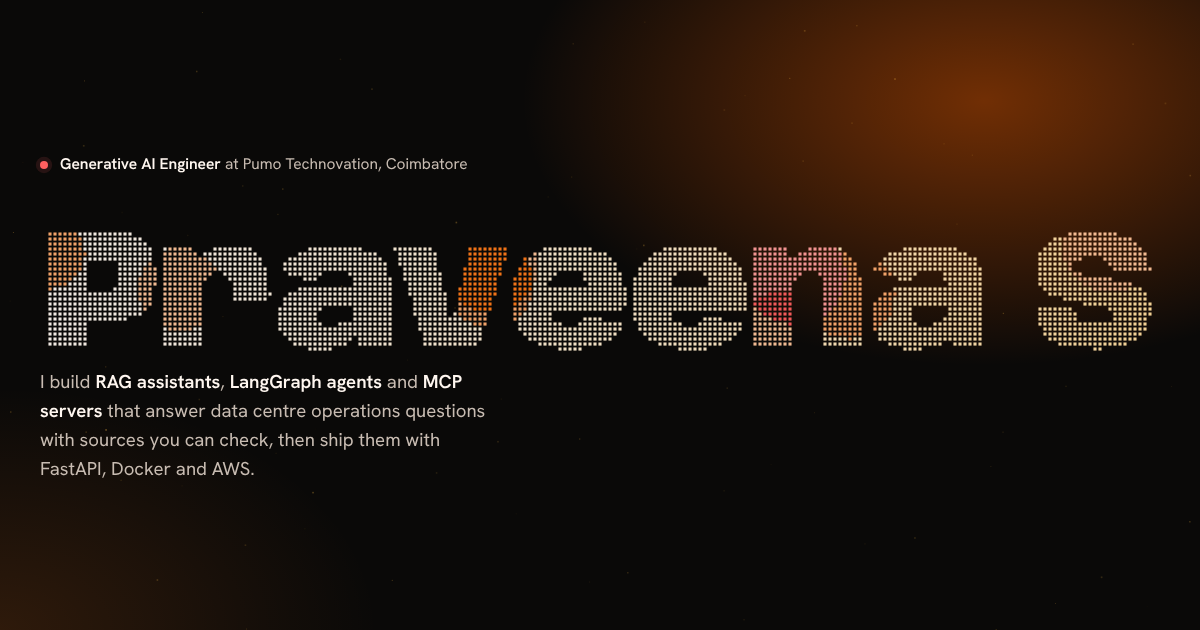
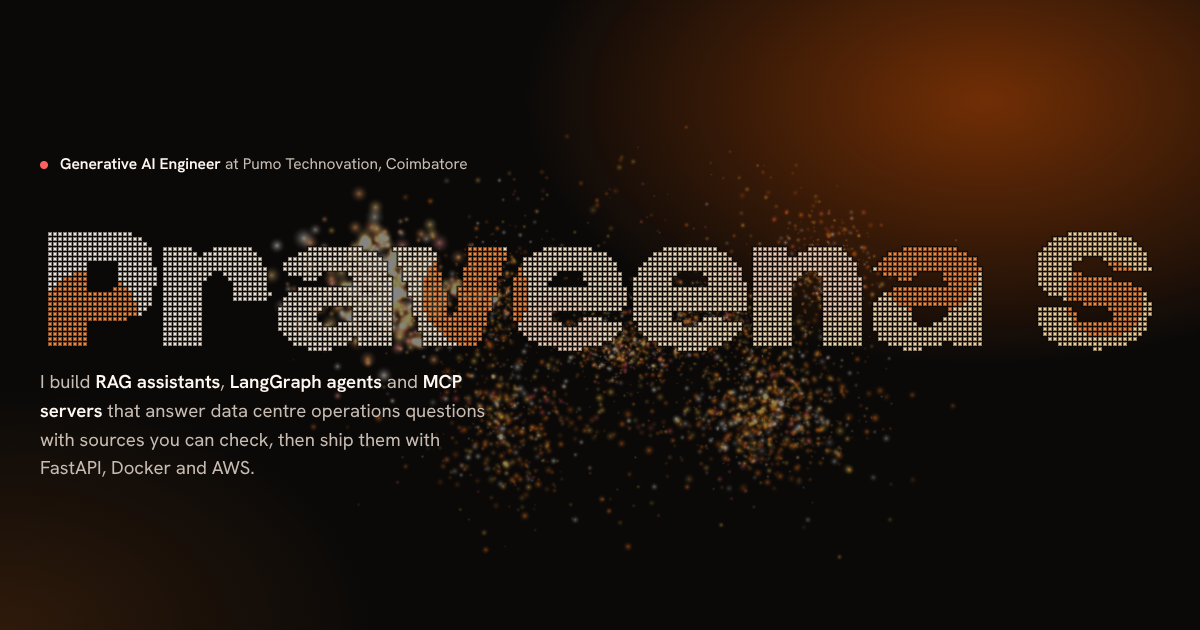
Add a 3D embedding galaxy behind the page
A WebGL point cloud grouped into topic clusters, like embeddings in a
vector database. The cursor tilts it and lights up nearby points like a
query, clicks send a ripple, a random cluster flashes like a retrieval,
and scrolling morphs it from galaxy to knowledge sphere, index lattice,
double helix and a ring around the contact section. Map and console cards
are frosted glass so the shapes glow through; the name gets a dark backing
so it stays legible over the glow. Motion is time-based, phones get fewer
points and a dimmer cloud, and reduced-motion visitors see a still frame.

Claude-Session: https://claude.ai/code/session_0181d6akb8y7CAuqzE2LccGx

diff --git a/index.html b/index.html
@@ -123,8 +123,9 @@ button{font:inherit}
 .hero{position:relative;min-height:100vh;min-height:100svh;display:flex;align-items:center;overflow:hidden;isolation:isolate;
   background:
     radial-gradient(55% 60% at 82% 16%,var(--glow),transparent 70%),
-    radial-gradient(45% 55% at 0% 100%,rgb(var(--accent-c) / .15),transparent 70%),
-    var(--bg)}
+    radial-gradient(45% 55% at 0% 100%,rgb(var(--accent-c) / .15),transparent 70%)}
+/* 3D embedding galaxy: fixed behind every section (sections stay see-through) */
+#galaxy{position:fixed;left:0;top:0;width:100%;height:100vh;z-index:-1;pointer-events:none;opacity:0}
 #field{position:absolute;inset:0;width:100%;height:100%;z-index:0}
 .hero-in{position:relative;z-index:1;width:100%;padding-top:clamp(104px,14vh,150px);padding-bottom:clamp(48px,8vh,96px)}
 .hero-top{display:flex;flex-wrap:wrap;justify-content:space-between;align-items:center;gap:8px 24px}
@@ -170,7 +171,7 @@ button{font:inherit}
 .codelink:hover{color:var(--accent);border-color:var(--accent)}
 
 .map{position:sticky;top:96px;min-width:0}
-.map-in{border:1px solid var(--line);border-radius:26px;padding:clamp(14px,2vw,24px);background:radial-gradient(90% 70% at 100% 0%,rgb(var(--glow-c) / .22),transparent 65%),linear-gradient(180deg,var(--s1),var(--bg-2))}
+.map-in{border:1px solid var(--line);border-radius:26px;padding:clamp(14px,2vw,24px);background:radial-gradient(90% 70% at 100% 0%,rgb(var(--glow-c) / .2),transparent 65%),linear-gradient(180deg,rgb(var(--s1-c) / .66),rgb(var(--bg-c) / .74));-webkit-backdrop-filter:blur(10px) saturate(140%);backdrop-filter:blur(10px) saturate(140%)}
 .map-scroll{overflow-x:auto;-webkit-overflow-scrolling:touch;scrollbar-width:thin}
 .map-svg{width:100%;height:auto}
 @media (max-width:640px){.map-svg{min-width:600px}}
@@ -224,7 +225,7 @@ button{font:inherit}
 @media (max-width:760px){.earlier{grid-template-columns:1fr}}
 
 /* ---------- Stack marquee ---------- */
-.marquee{position:relative;overflow:hidden;border-block:1px solid var(--line);padding-block:clamp(18px,2.4vw,30px);background:var(--bg-2);
+.marquee{position:relative;overflow:hidden;border-block:1px solid var(--line);padding-block:clamp(18px,2.4vw,30px);background:rgb(var(--bg-c) / .72);
   -webkit-mask-image:linear-gradient(90deg,transparent,#000 7%,#000 93%,transparent);mask-image:linear-gradient(90deg,transparent,#000 7%,#000 93%,transparent)}
 .mq-row{display:flex;width:max-content;animation:mq 46s linear infinite}
 .mq-row+.mq-row{margin-top:clamp(6px,1vw,12px);animation-duration:58s;animation-direction:reverse}
@@ -248,8 +249,8 @@ button{font:inherit}
 @media (max-width:560px){.princ{grid-template-columns:1fr}}
 
 /* ---------- Ask my resume ---------- */
-.ask-sec{background:linear-gradient(180deg,var(--bg),var(--bg-2) 30%,var(--bg-2) 70%,var(--bg))}
-.console{border:1px solid var(--line-2);border-radius:28px;padding:clamp(16px,3vw,32px);background:radial-gradient(110% 80% at 0% 0%,rgb(var(--glow-c) / .24),transparent 60%),var(--s1)}
+.ask-sec{background:linear-gradient(180deg,transparent,rgb(var(--bg-c) / .55) 30%,rgb(var(--bg-c) / .55) 70%,transparent)}
+.console{border:1px solid var(--line-2);border-radius:28px;padding:clamp(16px,3vw,32px);background:radial-gradient(110% 80% at 0% 0%,rgb(var(--glow-c) / .22),transparent 60%),rgb(var(--s1-c) / .7);-webkit-backdrop-filter:blur(10px) saturate(140%);backdrop-filter:blur(10px) saturate(140%)}
 .ask{display:flex;align-items:center;gap:10px;padding:6px 6px 6px 22px;border-radius:999px;background:var(--bg);border:1px solid var(--line-2);transition:border-color .2s}
 .ask:focus-within{border-color:var(--service)}
 #q{flex:1;min-width:0;height:48px;border:0;outline:0;background:transparent;color:var(--text);font:500 18px var(--f-body)}
@@ -333,7 +334,7 @@ button{font:inherit}
 @media (max-width:760px){.edu{grid-template-columns:1fr}}
 
 /* ---------- Contact ---------- */
-.contact{position:relative;overflow:hidden;padding-block:clamp(100px,13vw,170px) clamp(64px,8vw,96px);background:radial-gradient(70% 70% at 50% 110%,var(--glow),transparent 70%),var(--bg)}
+.contact{position:relative;overflow:hidden;padding-block:clamp(100px,13vw,170px) clamp(64px,8vw,96px);background:radial-gradient(70% 70% at 50% 110%,var(--glow),transparent 70%)}
 .contact h2{font:900 clamp(42px,7.4vw,108px)/.95 var(--f-disp);font-stretch:112.5%;letter-spacing:-.02em;max-width:13ch;text-wrap:balance}
 .contact .sub{margin-top:22px;color:var(--muted);font-size:clamp(17px,1.5vw,20px);max-width:48ch}
 .mailrow{margin-top:40px;display:flex;flex-wrap:wrap;align-items:center;gap:14px 20px}
@@ -392,6 +393,7 @@ footer{border-top:1px solid var(--line);padding-block:24px calc(24px + env(safe-
 </head>
 <body>
 <a class="skip" href="#main">Skip to content</a>
+<canvas id="galaxy" aria-hidden="true"></canvas>
 <div class="prog" aria-hidden="true"></div>
 
 <header class="top">
@@ -850,6 +852,230 @@ function rgbVar(name,fallback){
 }
 
 /* =====================================================================
+   3D embedding galaxy: a WebGL point cloud fixed behind the whole page.
+   The points sit in topic clusters, the way embeddings do in a vector
+   database. The cursor acts like a query (nearby points light up and the
+   cloud tilts toward it), a click sends a ripple, a random cluster lights
+   up every few seconds like a retrieval, and scrolling morphs the cloud:
+   galaxy (hero), knowledge sphere (systems), index lattice (ask my resume),
+   career helix (experience), then a ring around the contact section.
+   ===================================================================== */
+var Galaxy=(function(){
+  var cv=document.getElementById("galaxy");
+  if(!cv) return null;
+  var gl=null;
+  try{ gl=cv.getContext("webgl",{alpha:true,antialias:false,premultipliedAlpha:true,powerPreference:"low-power"})||cv.getContext("experimental-webgl"); }catch(e){ gl=null; }
+  if(!gl){ cv.style.display="none"; return null; }
+
+  var VS=[
+    "attribute vec3 aP0,aP1,aP2,aP3,aP4;",
+    "attribute vec4 aSeed;",
+    "uniform vec4 uW; uniform float uW4;",
+    "uniform mat4 uMV,uProj;",
+    "uniform float uTime,uSize,uHot,uHotAmt,uAspect,uPulseT,uMouseOn;",
+    "uniform vec2 uMouse,uPulse;",
+    "uniform vec3 uC0,uC1,uC2,uC3;",
+    "varying vec3 vColor; varying float vAlpha;",
+    "void main(){",
+    "  vec3 p=aP0*uW.x+aP1*uW.y+aP2*uW.z+aP3*uW.w+aP4*uW4;",
+    "  float ph=aSeed.z;",
+    "  p+=0.022*vec3(sin(uTime*0.6+ph),cos(uTime*0.5+ph*1.3),sin(uTime*0.45+ph*0.7));",
+    "  vec4 mv=uMV*vec4(p,1.0);",
+    "  gl_Position=uProj*mv;",
+    "  vec2 ndc=gl_Position.xy/gl_Position.w;",
+    "  float near=uMouseOn*(1.0-smoothstep(0.0,0.30,length((ndc-uMouse)*vec2(uAspect,1.0))));",
+    "  float hot=0.75*uHotAmt*(1.0-step(0.5,abs(aSeed.x-uHot)));",
+    "  float ring=0.0;",
+    "  if(uPulseT>=0.0){ float dr=length((ndc-uPulse)*vec2(uAspect,1.0))-uPulseT*1.7; ring=exp(-dr*dr*90.0)*(1.0-uPulseT); }",
+    "  float boost=max(max(near,hot),ring);",
+    "  vec3 c=aSeed.w<0.45?uC1:(aSeed.w<0.75?uC2:(aSeed.w<0.93?uC0:uC3));",
+    "  vColor=mix(c,vec3(1.0,0.94,0.86),boost*0.6);",
+    "  float tw=0.72+0.28*sin(uTime*1.6+ph*3.0);",
+    "  vAlpha=(0.42+0.55*aSeed.y)*tw+boost*0.7;",
+    "  gl_PointSize=uSize*(0.5+aSeed.y)*(1.0+boost*1.3)/max(0.5,-mv.z);",
+    "}"
+  ].join("\n");
+  var FS=[
+    "precision mediump float;",
+    "varying vec3 vColor; varying float vAlpha;",
+    "void main(){",
+    "  float d=length(gl_PointCoord-vec2(0.5));",
+    "  if(d>0.5) discard;",
+    "  float a=1.0-d*2.0; a=a*a*min(1.0,vAlpha);",
+    "  gl_FragColor=vec4(vColor*a,a);",
+    "}"
+  ].join("\n");
+  function compile(type,src){
+    var s=gl.createShader(type); gl.shaderSource(s,src); gl.compileShader(s);
+    if(!gl.getShaderParameter(s,gl.COMPILE_STATUS)){ if(window.console) console.warn("galaxy shader:",gl.getShaderInfoLog(s)); return null; }
+    return s;
+  }
+  var vs=compile(gl.VERTEX_SHADER,VS), fs=compile(gl.FRAGMENT_SHADER,FS);
+  if(!vs||!fs){ cv.style.display="none"; return null; }
+  var prog=gl.createProgram(); gl.attachShader(prog,vs); gl.attachShader(prog,fs); gl.linkProgram(prog);
+  if(!gl.getProgramParameter(prog,gl.LINK_STATUS)){ cv.style.display="none"; return null; }
+  gl.useProgram(prog);
+
+  // ---- point data (seeded, so the cloud looks the same on every visit) ----
+  var small=innerWidth<760, N=small?1800:4200, K=8, STRIDE=19, sd=20261016;
+  function rand(){ sd=(sd+0x6D2B79F5)|0; var t=Math.imul(sd^(sd>>>15),1|sd); t=(t+Math.imul(t^(t>>>7),61|t))^t; return ((t^(t>>>14))>>>0)/4294967296; }
+  function gauss(){ var u=rand()||1e-6, v=rand(); return Math.sqrt(-2*Math.log(u))*Math.cos(6.2831853*v); }
+  // cluster id per point, sorted so each cluster is a contiguous run (it then forms a patch in every shape)
+  var cl=new Array(N), ws=[], wsum=0, k, j, i, idx=0;
+  for(k=0;k<K;k++){ ws.push(0.6+rand()*0.9); wsum+=ws[k]; }
+  var nCl=N-Math.round(N*0.12);
+  for(k=0;k<K;k++){ var cnt=(k===K-1)?nCl-idx:Math.round(nCl*ws[k]/wsum); for(j=0;j<cnt&&idx<nCl;j++) cl[idx++]=k; }
+  while(idx<N) cl[idx++]=K; // K = scattered "noise" points
+
+  var centers=[], sig=[];
+  for(k=0;k<K;k++){
+    var ca=k/K*6.2832+rand()*0.6, cr=0.75+rand()*1.15;
+    centers.push([Math.cos(ca)*cr*1.3,(rand()-0.5)*1.2,Math.sin(ca)*cr*0.85]);
+    sig.push([0.16+rand()*0.22,0.12+rand()*0.18,0.16+rand()*0.22]);
+  }
+  var G=4, S=3.0, EDGES=[], ax, g1, g2, g3;
+  for(ax=0;ax<3;ax++) for(g1=0;g1<G;g1++) for(g2=0;g2<G;g2++) for(g3=0;g3<G-1;g3++){
+    var A=[0,0,0], B=[0,0,0], o1=(ax+1)%3, o2=(ax+2)%3;
+    A[ax]=g3; B[ax]=g3+1; A[o1]=B[o1]=g1; A[o2]=B[o2]=g2;
+    EDGES.push([A,B]);
+  }
+  function g2w(v){ return (v/(G-1)-0.5)*S; }
+  var TILT=1.1, ct=Math.cos(TILT), st=Math.sin(TILT);
+  var data=new Float32Array(N*STRIDE);
+  function put(n,slot,x,y,z){ var o=n*STRIDE+slot*3; data[o]=x; data[o+1]=y; data[o+2]=z; }
+  for(i=0;i<N;i++){
+    var c=cl[i], f=i/N;
+    // 0 galaxy: topic clusters with thin filaments to the next cluster, plus scattered noise
+    if(c<K){
+      var C=centers[c], Z=sig[c];
+      if(rand()<0.14){ var D=centers[(c+1)%K], tt=rand(); put(i,0,C[0]+(D[0]-C[0])*tt+gauss()*0.05,C[1]+(D[1]-C[1])*tt+gauss()*0.05,C[2]+(D[2]-C[2])*tt+gauss()*0.05); }
+      else put(i,0,C[0]+gauss()*Z[0],C[1]+gauss()*Z[1],C[2]+gauss()*Z[2]);
+    } else {
+      var su=rand()*2-1, sth=rand()*6.2832, sr=Math.cbrt(rand()), sq=Math.sqrt(1-su*su);
+      put(i,0,sq*Math.cos(sth)*sr*2.7,su*sr*1.5,sq*Math.sin(sth)*sr*1.7);
+    }
+    // 1 knowledge sphere (Fibonacci lattice)
+    var fy=1-2*(i+0.5)/N, frad=Math.sqrt(1-fy*fy), fang=i*2.399963, R1=1.5*(1+(rand()-0.5)*0.05);
+    put(i,1,Math.cos(fang)*frad*R1,fy*R1,Math.sin(fang)*frad*R1);
+    // 2 index lattice: points along grid edges, brighter at the nodes
+    var e=EDGES[Math.min(EDGES.length-1,Math.floor(f*EDGES.length))], et=rand()<0.22?(rand()<0.5?0:1):rand(), jt=0.012;
+    put(i,2,g2w(e[0][0]+(e[1][0]-e[0][0])*et)+gauss()*jt,g2w(e[0][1]+(e[1][1]-e[0][1])*et)+gauss()*jt,g2w(e[0][2]+(e[1][2]-e[0][2])*et)+gauss()*jt);
+    // 3 career helix: an upright double helix (two strands joined by rungs) that spins like DNA
+    var hy=1.65-3.3*f, ha=f*2.4*6.2832, HR=0.62;
+    if(rand()<0.16){ var hs=1-2*rand(); put(i,3,Math.cos(ha)*HR*hs,hy,Math.sin(ha)*HR*hs); }
+    else { var hb=ha+(i%2)*Math.PI; put(i,3,Math.cos(hb)*HR+gauss()*0.025,hy+gauss()*0.02,Math.sin(hb)*HR+gauss()*0.025); }
+    // 4 contact ring: a tilted torus
+    var tu=f*6.2832+rand()*0.03, tv=rand()*6.2832, TR=1.5, tr=0.26*(0.6+rand()*0.6);
+    var rx0=(TR+tr*Math.cos(tv))*Math.cos(tu), ry0=tr*Math.sin(tv), rz0=(TR+tr*Math.cos(tv))*Math.sin(tu);
+    put(i,4,rx0,ry0*ct-rz0*st,ry0*st+rz0*ct);
+    // seed: cluster, size, phase, colour pick
+    var so=i*STRIDE+15; data[so]=c; data[so+1]=rand(); data[so+2]=rand()*6.2832; data[so+3]=rand();
+  }
+  var buf=gl.createBuffer(); gl.bindBuffer(gl.ARRAY_BUFFER,buf); gl.bufferData(gl.ARRAY_BUFFER,data,gl.STATIC_DRAW);
+  ["aP0","aP1","aP2","aP3","aP4"].forEach(function(n,s){ var l=gl.getAttribLocation(prog,n); if(l<0) return; gl.enableVertexAttribArray(l); gl.vertexAttribPointer(l,3,gl.FLOAT,false,STRIDE*4,s*12); });
+  var ls=gl.getAttribLocation(prog,"aSeed"); if(ls>=0){ gl.enableVertexAttribArray(ls); gl.vertexAttribPointer(ls,4,gl.FLOAT,false,STRIDE*4,60); }
+  var U={};
+  ["uW","uW4","uMV","uProj","uTime","uSize","uHot","uHotAmt","uAspect","uPulseT","uMouseOn","uMouse","uPulse","uC0","uC1","uC2","uC3"].forEach(function(n){ U[n]=gl.getUniformLocation(prog,n); });
+  function col(v){ return [v[0]/255,v[1]/255,v[2]/255]; }
+  var C0=col(rgbVar("--text-c",[255,247,240])), C1=col(rgbVar("--accent-c",[255,122,26])), C2=col(rgbVar("--service-c",[255,192,72])), C3=col(rgbVar("--guard-c",[255,96,96]));
+  gl.disable(gl.DEPTH_TEST); gl.enable(gl.BLEND); gl.blendFunc(gl.ONE,gl.ONE);
+
+  // ---- camera ----
+  function persp(fovy,asp,n,fr){ var t=1/Math.tan(fovy/2), nf=1/(n-fr); return [t/asp,0,0,0, 0,t,0,0, 0,0,(fr+n)*nf,-1, 0,0,2*fr*n*nf,0]; }
+  function modelView(rx,ry,ox,oy,oz){
+    var cx=Math.cos(rx), sx=Math.sin(rx), cy=Math.cos(ry), sy=Math.sin(ry);
+    return [cy,sx*sy,-cx*sy,0, 0,cx,sx,0, sy,-sx*cy,cx*cy,0, ox,oy,oz,1];
+  }
+  var DPR=1, aspect=1, camZ=4.2, proj=persp(0.8727,1,0.1,50), lastW=0, lastH=0;
+  function resize(){
+    var w=innerWidth, h=innerHeight;
+    if(w===lastW&&Math.abs(h-lastH)<140) return;
+    lastW=w; lastH=h; DPR=Math.min(small?1.5:1.75,window.devicePixelRatio||1);
+    cv.width=Math.round(w*DPR); cv.height=Math.round(h*DPR); cv.style.height=h+"px";
+    aspect=w/h; camZ=aspect<1?5.4:4.2; proj=persp(0.8727,aspect,0.1,50);
+  }
+
+  // ---- scroll: which shape, where, and how bright ----
+  var SECTIONS=["top","systems","ask","experience","contact"];
+  var OFF=[[0.3,-0.1,-1.0],[0.95,0,0],[0.15,0,-0.2],[2.05,0,0],[0.9,-0.05,0]]; // x, y, depth per shape
+  // brightness per shape; dimmer on phones, where the cloud sits right behind body text
+  var OP=small?[0.85,0.38,0.4,0.42,0.75]:[0.9,0.7,0.8,0.75,1];
+  var anchors=[0,1,2,3,4], TW=[1,0,0,0,0], W=[1,0,0,0,0];
+  function measure(){
+    var y=window.scrollY||window.pageYOffset, maxC=document.documentElement.scrollHeight-innerHeight/2-1;
+    anchors=SECTIONS.map(function(id,s){
+      var el=document.getElementById(id); if(!el) return s*1e5;
+      var r=el.getBoundingClientRect();
+      return s===0?innerHeight/2:Math.min(maxC,r.top+y+r.height/2);
+    });
+  }
+  function targets(){
+    var cy=(window.scrollY||window.pageYOffset)+innerHeight/2, n=anchors.length, s;
+    for(s=0;s<n;s++) TW[s]=0;
+    if(cy<=anchors[0]){ TW[0]=1; return; }
+    if(cy>=anchors[n-1]){ TW[n-1]=1; return; }
+    for(s=0;s<n-1;s++){
+      if(cy>=anchors[s]&&cy<anchors[s+1]){
+        var t=(cy-anchors[s])/(anchors[s+1]-anchors[s]);
+        t=t<0.25?0:t>0.75?1:(t-0.25)/0.5; t=t*t*(3-2*t);
+        TW[s]=1-t; TW[s+1]=t; return;
+      }
+    }
+  }
+
+  // ---- pointer: cursor as a query, clicks as ripples ----
+  var mx=0, my=0, tmx=0, tmy=0, mOn=0, tmOn=0, pulse=[0,0], pulseT=-99, hot=-1, hotT=-99, fade=0, raf=0, t0=performance.now(), last=0;
+  if(!REDUCE){
+    window.addEventListener("pointermove",function(e){
+      if(e.pointerType!=="mouse") return;
+      tmx=e.clientX/innerWidth*2-1; tmy=e.clientY/innerHeight*2-1; tmOn=1;
+    },{passive:true});
+    document.documentElement.addEventListener("pointerleave",function(){ tmOn=0; });
+    window.addEventListener("pointerdown",function(e){
+      pulse=[e.clientX/innerWidth*2-1,-(e.clientY/innerHeight*2-1)]; pulseT=(performance.now()-t0)/1000;
+    },{passive:true});
+  }
+
+  function draw(now){
+    // time-based easing, so the motion runs at the same speed at 30, 60 or 120 frames per second
+    var t=(now-t0)/1000, dt=last?Math.min(0.1,t-last):0, s, ox=0, oy=0, oz=0, op=0, oscale=aspect>1?1:0.15;
+    last=t;
+    function ease(rate){ return REDUCE?1:1-Math.exp(-dt*rate); }
+    for(s=0;s<5;s++) W[s]+=(TW[s]-W[s])*ease(3.3);
+    mx+=(tmx-mx)*ease(3.1); my+=(tmy-my)*ease(3.1); mOn+=(tmOn-mOn)*ease(3.7);
+    fade=REDUCE?1:Math.min(1,fade+dt*0.7);
+    for(s=0;s<5;s++){ ox+=W[s]*OFF[s][0]*oscale; oy+=W[s]*OFF[s][1]; oz+=W[s]*OFF[s][2]; op+=W[s]*OP[s]; }
+    if(REDUCE) op=0.5;
+    if(!REDUCE&&t-hotT>2.8){ hotT=t; hot=Math.floor(rand()*K); }
+    var hotAmt=REDUCE?0:Math.max(0,Math.sin(Math.min(1,(t-hotT)/1.6)*Math.PI));
+    var pt=(t-pulseT)/1.4; if(pt>1||pt<0) pt=-1;
+    gl.viewport(0,0,cv.width,cv.height); gl.clearColor(0,0,0,0); gl.clear(gl.COLOR_BUFFER_BIT);
+    gl.uniform4f(U.uW,W[0],W[1],W[2],W[3]); gl.uniform1f(U.uW4,W[4]);
+    gl.uniformMatrix4fv(U.uMV,false,new Float32Array(modelView(0.22-my*0.3,(REDUCE?0.6:t*0.05)+mx*0.5,ox,oy,oz-camZ)));
+    gl.uniformMatrix4fv(U.uProj,false,new Float32Array(proj));
+    gl.uniform1f(U.uTime,REDUCE?0:t); gl.uniform1f(U.uSize,(small?28:36)*DPR);
+    gl.uniform1f(U.uHot,hot); gl.uniform1f(U.uHotAmt,hotAmt); gl.uniform1f(U.uAspect,aspect);
+    gl.uniform1f(U.uPulseT,pt); gl.uniform2f(U.uPulse,pulse[0],pulse[1]);
+    gl.uniform1f(U.uMouseOn,mOn); gl.uniform2f(U.uMouse,tmx,-tmy);
+    gl.uniform3fv(U.uC0,C0); gl.uniform3fv(U.uC1,C1); gl.uniform3fv(U.uC2,C2); gl.uniform3fv(U.uC3,C3);
+    gl.drawArrays(gl.POINTS,0,N);
+    cv.style.opacity=(op*fade).toFixed(3);
+  }
+  function loop(now){ raf=0; if(document.hidden) return; targets(); draw(now); raf=requestAnimationFrame(loop); }
+  function start(){ if(!raf&&!REDUCE) raf=requestAnimationFrame(loop); }
+  document.addEventListener("visibilitychange",function(){ if(!document.hidden) start(); });
+  cv.addEventListener("webglcontextlost",function(e){ e.preventDefault(); if(raf){ cancelAnimationFrame(raf); raf=0; } cv.style.display="none"; });
+  var rzT=0;
+  window.addEventListener("resize",function(){ clearTimeout(rzT); rzT=setTimeout(function(){ resize(); measure(); if(REDUCE) draw(performance.now()); },150); });
+  resize(); measure();
+  setTimeout(measure,1500);
+  if(document.fonts&&document.fonts.ready) document.fonts.ready.then(measure);
+  if(REDUCE) draw(performance.now()); else start();
+  return { shapes:function(){ return W.slice(); } };
+})();
+window.__galaxy=Galaxy;
+
+/* =====================================================================
    Hero: the name is assembled from points, like an index built from
    chunks. Points drift in, settle into the letters, scatter around the
    cursor, and spread apart as you scroll away. Every few seconds a few
@@ -861,12 +1087,12 @@ var Field=(function(){
   if(!hero||!cv||!cv.getContext||!txt) return null;
   var ctx=cv.getContext("2d"); if(!ctx) return null;
   var W=0,H=0,DPR=1,P=[],A=[],R=120,size=2.4,built=false,raf=0,visible=true,t0=0,lastPulse=0,disperse=0,lastW=0,lastH=0;
-  var mouse={x:-9999,y:-9999};
+  var mouse={x:-9999,y:-9999}, lastTick=0;
   var STRETCH={"50":"ultra-condensed","62.5":"extra-condensed","75":"condensed","87.5":"semi-condensed","100":"normal","112.5":"semi-expanded","125":"expanded","150":"extra-expanded","200":"ultra-expanded"};
   var BASE=rgbVar("--text-c",[255,242,238]);
   var HOT=[rgbVar("--accent-c",[255,138,102]),rgbVar("--guard-c",[198,243,110])];
   var SERVICE=rgbVar("--service-c",[242,141,196]);
-  var AMBIENT="rgb("+SERVICE.join(",")+")";
+  var AMBIENT="rgb("+SERVICE.join(",")+")", BACKING="rgb("+rgbVar("--bg-c",[10,9,8]).join(",")+")";
   var LEVELS=5, FILLS=[], buckets=[];
   function mix(a,b,t){ return "rgb("+a.map(function(x,i){return Math.round(x+(b[i]-x)*t);}).join(",")+")"; }
   (function(){
@@ -931,7 +1157,7 @@ var Field=(function(){
       p.tx=tx; p.ty=ty;
     }
     P.length=n;
-    var na=Math.round(clamp(W*H/9000,40,170)); A=[];
+    var na=Galaxy?0:Math.round(clamp(W*H/9000,40,170)); A=[]; // the 3D galaxy replaces the flat drifting dots
     for(i=0;i<na;i++) A.push({x:rnd(0,W),y:rnd(0,H),r:rnd(.8,1.8),s:rnd(.05,.22),ph:rnd(0,6.2832),a:rnd(.12,.42)});
     nameBox.classList.add("drawn"); built=true;
     if(REDUCE){ P.forEach(function(p){p.x=p.tx;p.y=p.ty;}); draw(0); }
@@ -963,8 +1189,17 @@ var Field=(function(){
       var p=P[i], l=Math.round(p.h*LEVELS);
       buckets[l===0?0:(1+p.hc*LEVELS+(l-1))].push(p);
     }
-    ctx.globalAlpha=0.94*(1-disperse*0.82);
     var h=size/2;
+    // dark backing under the letters, so the 3D galaxy behind them never washes out the name
+    if(Galaxy){
+      ctx.globalAlpha=0.72*(1-disperse);
+      ctx.fillStyle=BACKING;
+      var hb=h+1.8, sb=size+3.6;
+      ctx.beginPath();
+      for(i=0;i<P.length;i++){ ctx.rect(P[i].x-hb,P[i].y-hb,sb,sb); }
+      ctx.fill();
+    }
+    ctx.globalAlpha=0.94*(1-disperse*0.82);
     for(b=0;b<buckets.length;b++){
       var list=buckets[b]; if(!list.length) continue;
       ctx.fillStyle=FILLS[b];
@@ -978,6 +1213,9 @@ var Field=(function(){
     var el=now-t0, R2=R*R, mx=mouse.x, my=mouse.y;
     if(el>2400&&now-lastPulse>2600) pulse(now);
     var spreadX=W*0.38*disperse, spreadY=H*0.5*disperse, lift=H*0.22*disperse;
+    // run extra physics steps on slow frames, so the name settles in the same time on any device
+    var steps=lastTick?Math.max(1,Math.min(4,Math.round((now-lastTick)/16.7))):1; lastTick=now;
+    for(var sp=0;sp<steps;sp++)
     for(var i=0;i<P.length;i++){
       var p=P[i];
       if(el>=p.delay){
@@ -994,7 +1232,7 @@ var Field=(function(){
     raf=requestAnimationFrame(tick);
   }
   function start(){ if(!raf&&!REDUCE&&built&&visible) raf=requestAnimationFrame(tick); }
-  function stop(){ if(raf){ cancelAnimationFrame(raf); raf=0; } }
+  function stop(){ if(raf){ cancelAnimationFrame(raf); raf=0; } lastTick=0; }
 
   hero.addEventListener("pointermove",function(e){
     var r=hero.getBoundingClientRect(); mouse.x=e.clientX-r.left; mouse.y=e.clientY-r.top;

diff --git a/README.md b/README.md
@@ -90,6 +90,7 @@ Values ending in `-c` are three numbers (red green blue, for example `255 122 26
 
 ## Motion
 
+- **3D embedding galaxy:** a WebGL cloud of glowing points, grouped into topic clusters like vectors in a vector database, sits behind the whole page (`Galaxy` in the script, `<canvas id="galaxy">`). The mouse tilts it and lights up nearby points like a search query, a click sends a ripple, and a random cluster flashes every few seconds. Scrolling morphs it: galaxy (hero), knowledge sphere (systems), index lattice (ask my resume), double helix (experience), ring (contact). Phones get fewer points and a dimmer cloud behind text; browsers without WebGL simply skip it.
 - **On load:** the name assembles from particles, then the header drops in and the intro and buttons rise.
 - **On scroll:** section headings swipe up word by word, and content slides in (`REVEALS` list in the script sets what moves and how). A two-row stack marquee runs under the hero.
 - **On hover (mouse and trackpad):** an orange glow follows the cursor, buttons pull toward the pointer, and skill tags lift.
